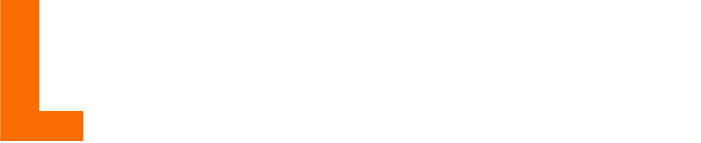
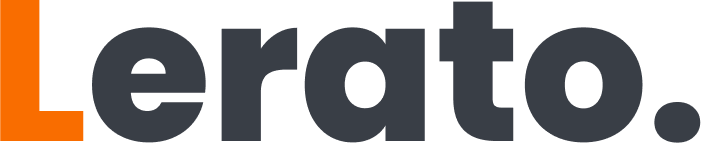
Added a header with links to different pages.

diff --git a/work.html b/work.html
@@ -38,9 +38,29 @@
     <title>Lerato's Portfolio</title>
   </head>
   <body>
+     <div class="container">
+    <nav class="d-flex justify-content-between">
+        <img src="images/Lerato..png" class="logo d-none d-md-block" alt="" />
+        <img src="images/small-logo.png" class="img-fluid small-logo d-block d-md-none" alt="" />
+        <ul>
+          <li class="active">
+            <a href="/index.html">Home</a>
+          </li>
+          <li>
+            <a href="/about.html">About</a>
+          </li>
+          <li>
+            <a href="/work.html">Work</a>
+          </li>
+          <li>
+            <a href="/contact.html">Contact</a>
+          </li>
+        </ul>
+      </div>
+    </nav>
     <div class="content-container container">
       <div class="content">
-        <h1 class="mb-4">Take a look at what I've been working on!</h1>
+        <h1 class="work-h1 mb-4">Take a look at what I've been working on!</h1>
         <div class="row">
           <div class="col-md-6 mb-4">
             <img
@@ -54,12 +74,16 @@
             </p>
           </div>
           <div class="col-md-6 mb-4">
-            <img src="images/cakes landing page.png" class="img-fluid" alt="" />
+            <img
+              src="images/cakes landing page.png"
+              class="img-fluid mb-3"
+              alt=""
+            />
             <h3 class="text-center m-0">Recipe Landing Page</h3>
             <p class="text-center text-muted">Built with HTML and CSS</p>
           </div>
           <div class="col-md-6 mb-4">
-            <img src="images/Weather app.png" class="img-fluid" alt="" />
+            <img src="images/Weather app.png" class="img-fluid mb-3" alt="" />
             <h3 class="text-center m-0">Weather App</h3>
             <p class="text-center text-muted">
               Built with HTML, CSS and Javascript

diff --git a/about.html b/about.html
@@ -38,11 +38,35 @@
     <title>Lerato's Portfolio</title>
   </head>
   <body>
+     <div class="container">
+    <nav class="d-flex justify-content-between">
+        <img src="images/Lerato..png" class="logo d-none d-md-block" alt="" />
+        <img src="images/small-logo.png" class="img-fluid small-logo d-block d-md-none" alt="" />
+        <ul>
+          <li class="active">
+            <a href="/index.html">Home</a>
+          </li>
+          <li>
+            <a href="/about.html">About</a>
+          </li>
+          <li>
+            <a href="/work.html">Work</a>
+          </li>
+          <li>
+            <a href="/contact.html">Contact</a>
+          </li>
+        </ul>
+      </div>
+    </nav>
     <div class="content-container container">
       <div class="row">
         <div class="col-lg-6">
           <div class="content">
-            <h1 class="mb-4">Hi I am Lerato Maretele</h1>
+            <h1 class="about-h1 mb-4">
+              Hi,
+              <br />
+              I am Lerato Maretele
+            </h1>
             <h2 class="mb-4">Frontend Developer, based in South Africa.</h2>
             <p class="mb-4">
               A versatile creative proffesional with a passion for crafting

diff --git a/contact.html b/contact.html
@@ -38,9 +38,29 @@
     <title>Lerato's Portfolio</title>
   </head>
   <body>
+     <div class="container">
+    <nav class="d-flex justify-content-between">
+        <img src="images/Lerato..png" class="logo d-none d-md-block" alt="" />
+        <img src="images/small-logo.png" class="img-fluid small-logo d-block d-md-none" alt="" />
+        <ul>
+          <li class="active">
+            <a href="/index.html">Home</a>
+          </li>
+          <li>
+            <a href="/about.html">About</a>
+          </li>
+          <li>
+            <a href="/work.html">Work</a>
+          </li>
+          <li>
+            <a href="/contact.html">Contact</a>
+          </li>
+        </ul>
+      </div>
+    </nav>
     <div class="content-container container">
       <div class="content">
-        <h1 class="mb-4">Let's get in touch</h1>
+        <h1 class="contact-h1 mb-4">Let's get in touch</h1>
         <h3>Email</h3>
         <p>
             <a href="mailto:leratomaretele725@gmail.com">

diff --git a/styles/portfolio.css b/styles/portfolio.css
@@ -23,8 +23,14 @@ h6 {
 
 h1 {
   font-size: 96px;
-  color: black;
+  color: var(--branding-color);
   line-height: 1.5;
+}
+
+.about-h1,
+.work-h1,
+.contact-h1 {
+  color: #000;
 }
 
 .projects {
@@ -52,6 +58,7 @@ p {
 }
 
 .hero h2 {
+  color: #fff;
   font-family: var(--default-font-family);
   font-weight: normal;
   line-height: 2;
@@ -109,6 +116,42 @@ p {
 
 .project-description {
   padding: 120px 60px;
+}
+
+.logo {
+  max-width: 125px;
+}
+
+.small-logo {
+  min-width: 55px;
+}
+
+nav {
+  padding: 20px 0;
+}
+
+nav ul {
+  padding: 0;
+  margin: 0;
+}
+
+nav li {
+  display: inline;
+  list-style: none;
+  line-height: 42px;
+  margin-left: 15px;
+}
+
+nav a {
+  text-decoration: none;
+  color: #000;
+  transition: all 100ms ease-in-out;
+}
+
+nav a:hover,
+nav li.active a {
+  color: var(--branding-color);
+  text-decoration: none;
 }
 
 @media (max-width: 900px) {

diff --git a/index.html b/index.html
@@ -38,6 +38,26 @@
     <title>Lerato's Portfolio</title>
   </head>
   <body>
+     <div class="container">
+    <nav class="d-flex justify-content-between">
+        <img src="images/Lerato..png" class="logo d-none d-md-block" alt="" />
+        <img src="images/small-logo.png" class="img-fluid small-logo d-block d-md-none" alt="" />
+        <ul>
+          <li class="active">
+            <a href="/index.html">Home</a>
+          </li>
+          <li>
+            <a href="/about.html">About</a>
+          </li>
+          <li>
+            <a href="/work.html">Work</a>
+          </li>
+          <li>
+            <a href="/contact.html">Contact</a>
+          </li>
+        </ul>
+      </div>
+    </nav>
     <div class="hero">
       <p>Hello, I am</p>
       <h1>Lerato Maretele</h1>
